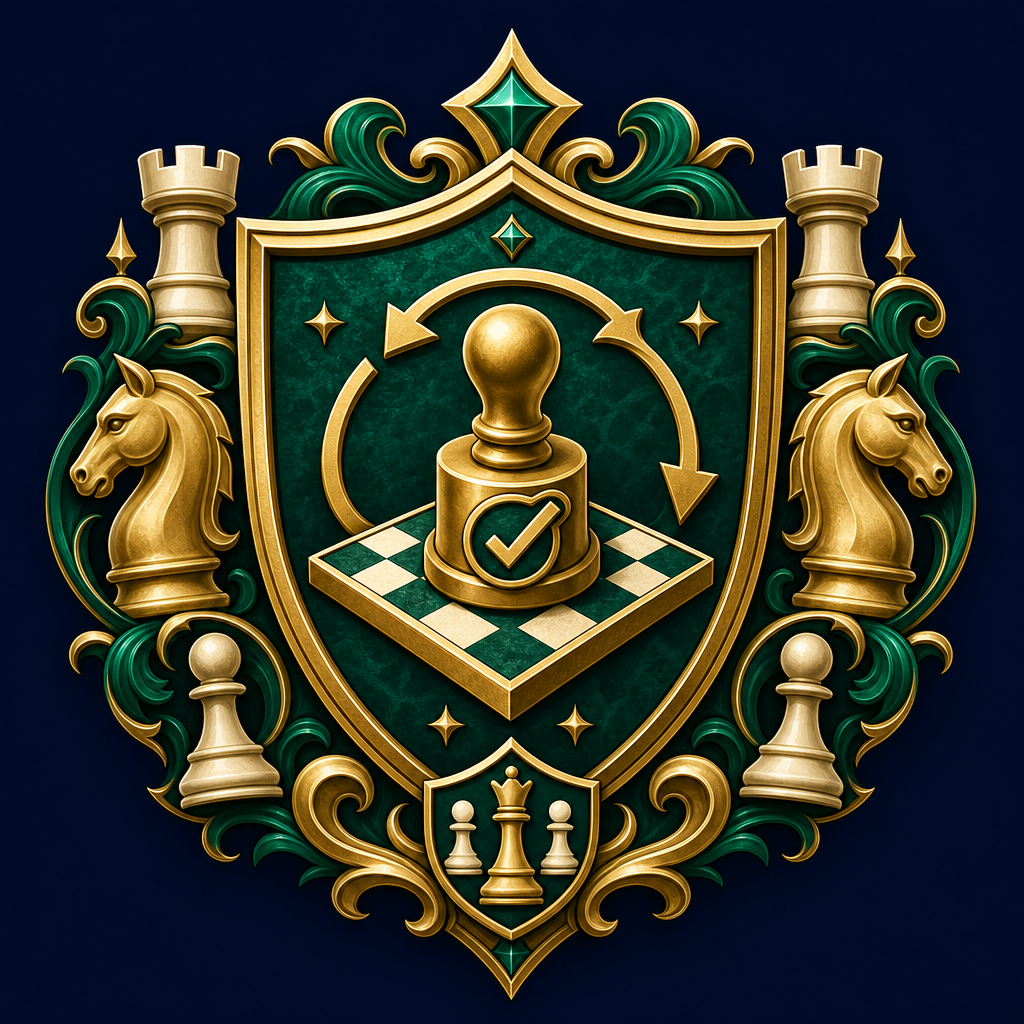
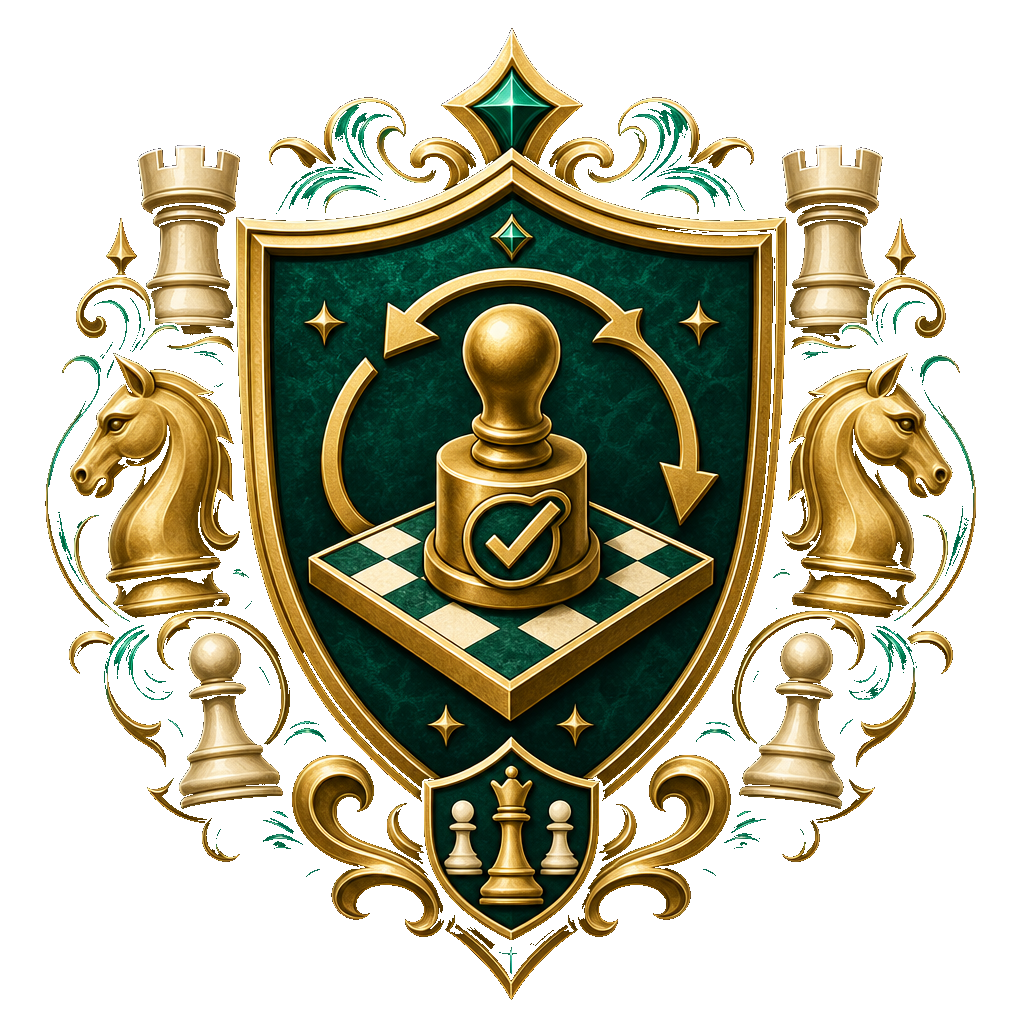
Remove proof loop badge square background

diff --git a/.learnings/ERRORS.md b/.learnings/ERRORS.md
@@ -2437,3 +2437,26 @@ Keep public metadata compact. Store only a bounded number of recent attempts and
 - Tags: clerk, metadata-limit, server-action, sqc
 
 ---
+
+## [ERR-20260506-004] local_image_background_removal_missing_tools
+
+**Logged**: 2026-05-06T11:14:00+02:00
+**Priority**: low
+**Status**: fixed
+**Area**: assets
+
+### Summary
+Initial local background-removal attempts failed because Python lacked Pillow and Swift could not compile against the installed SDK/toolchain.
+
+### Details
+`python3` raised `ModuleNotFoundError: No module named 'PIL'`. A Swift/CoreGraphics script failed with SDK/compiler mismatch errors. A temporary workspace-local venv with Pillow succeeded and avoided adding a project dependency.
+
+### Suggested Action
+For one-off image processing, prefer a workspace-local temporary venv (`tmp/imgvenv`) rather than changing project dependencies. Consider installing/standardizing an image tool if this becomes frequent.
+
+### Metadata
+- Source: command_failure
+- Related Files: public/badges/v6/proof-loop-test-badge.png
+- Tags: image-processing, pillow, swift-toolchain
+
+---

diff --git a/ROADMAP.md b/ROADMAP.md
@@ -1,6 +1,6 @@
 # CC Roadmap
 
-Last updated: 2026-05-06 11:10 Europe/Stockholm
+Last updated: 2026-05-06 11:15 Europe/Stockholm
 Owner: Sam  
 Status: fresh-baseline / manual-instruction only
 
@@ -48,6 +48,13 @@ Andreas reset SQC planning on 2026-05-05:
 ## Reconfirmed wanted backlog — 2026-05-05
 
 Andreas clarified that these five items are still wanted and should be treated as the fresh post-reset SQC backlog:
+
+- [x] Remove square background from Proof Loop Test coat of arms.
+  - added_at: 2026-05-06 11:12 Europe/Stockholm
+  - completed_at: 2026-05-06 11:15 Europe/Stockholm
+  - source: Andreas screenshot feedback on the Proof Loop Test badge.
+  - Proof: converted `public/badges/v6/proof-loop-test-badge.png` from an opaque square-backed RGB PNG into a transparent RGBA crest asset.
+  - Verification: transparency preview on magenta; `pnpm lint`; `pnpm build`.
 
 - [x] Turn completed active quest status from refresh/checking into proof actions.
   - added_at: 2026-05-06 11:07 Europe/Stockholm
